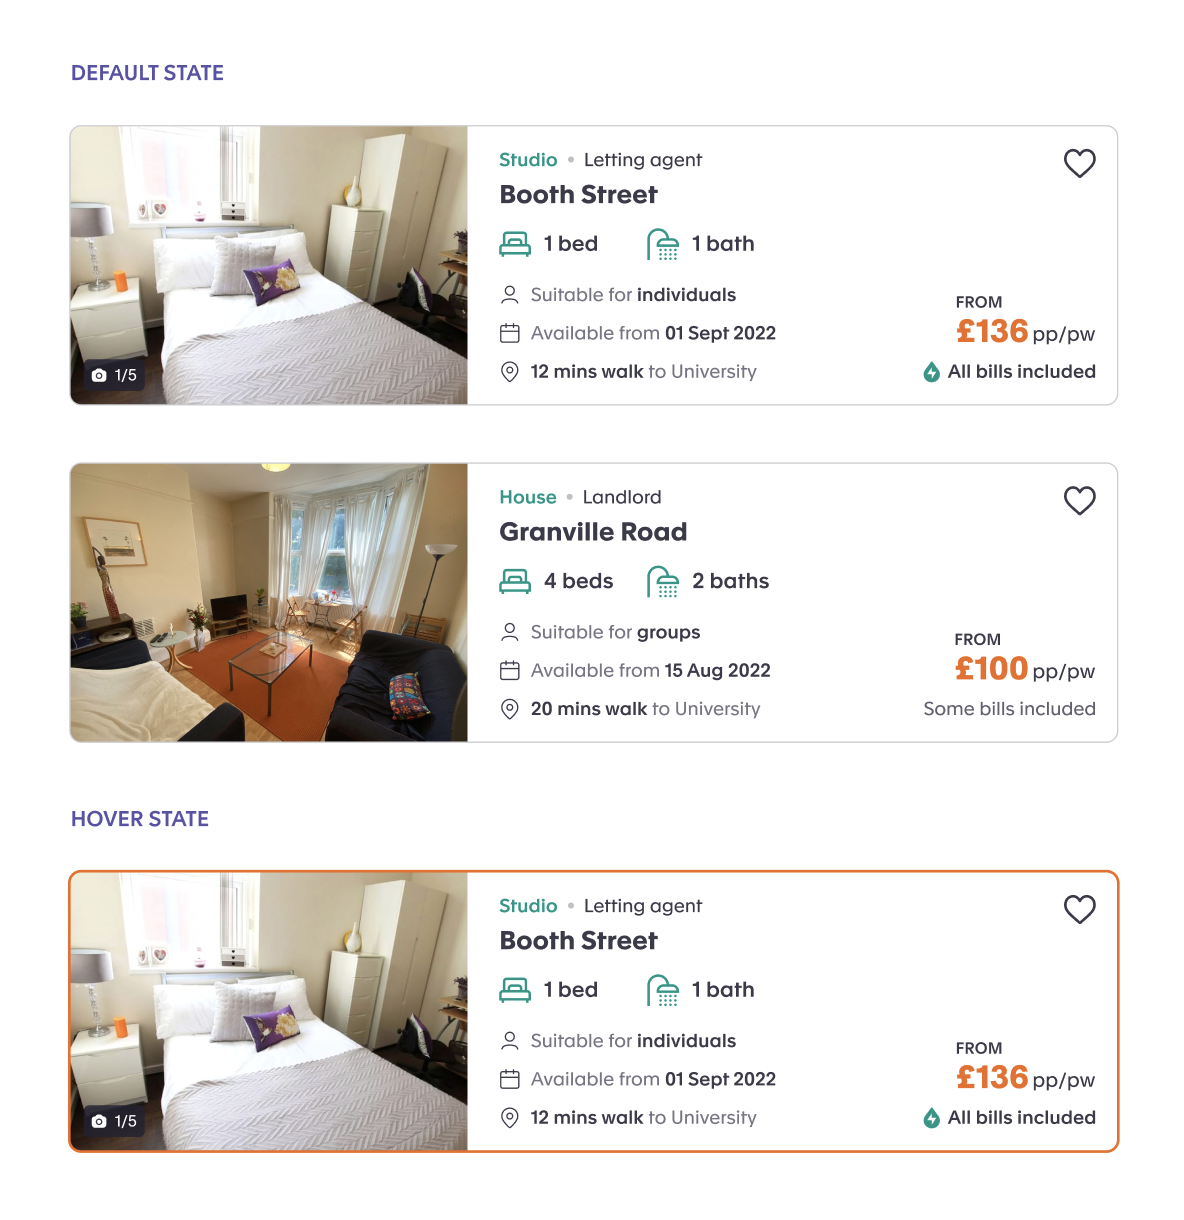
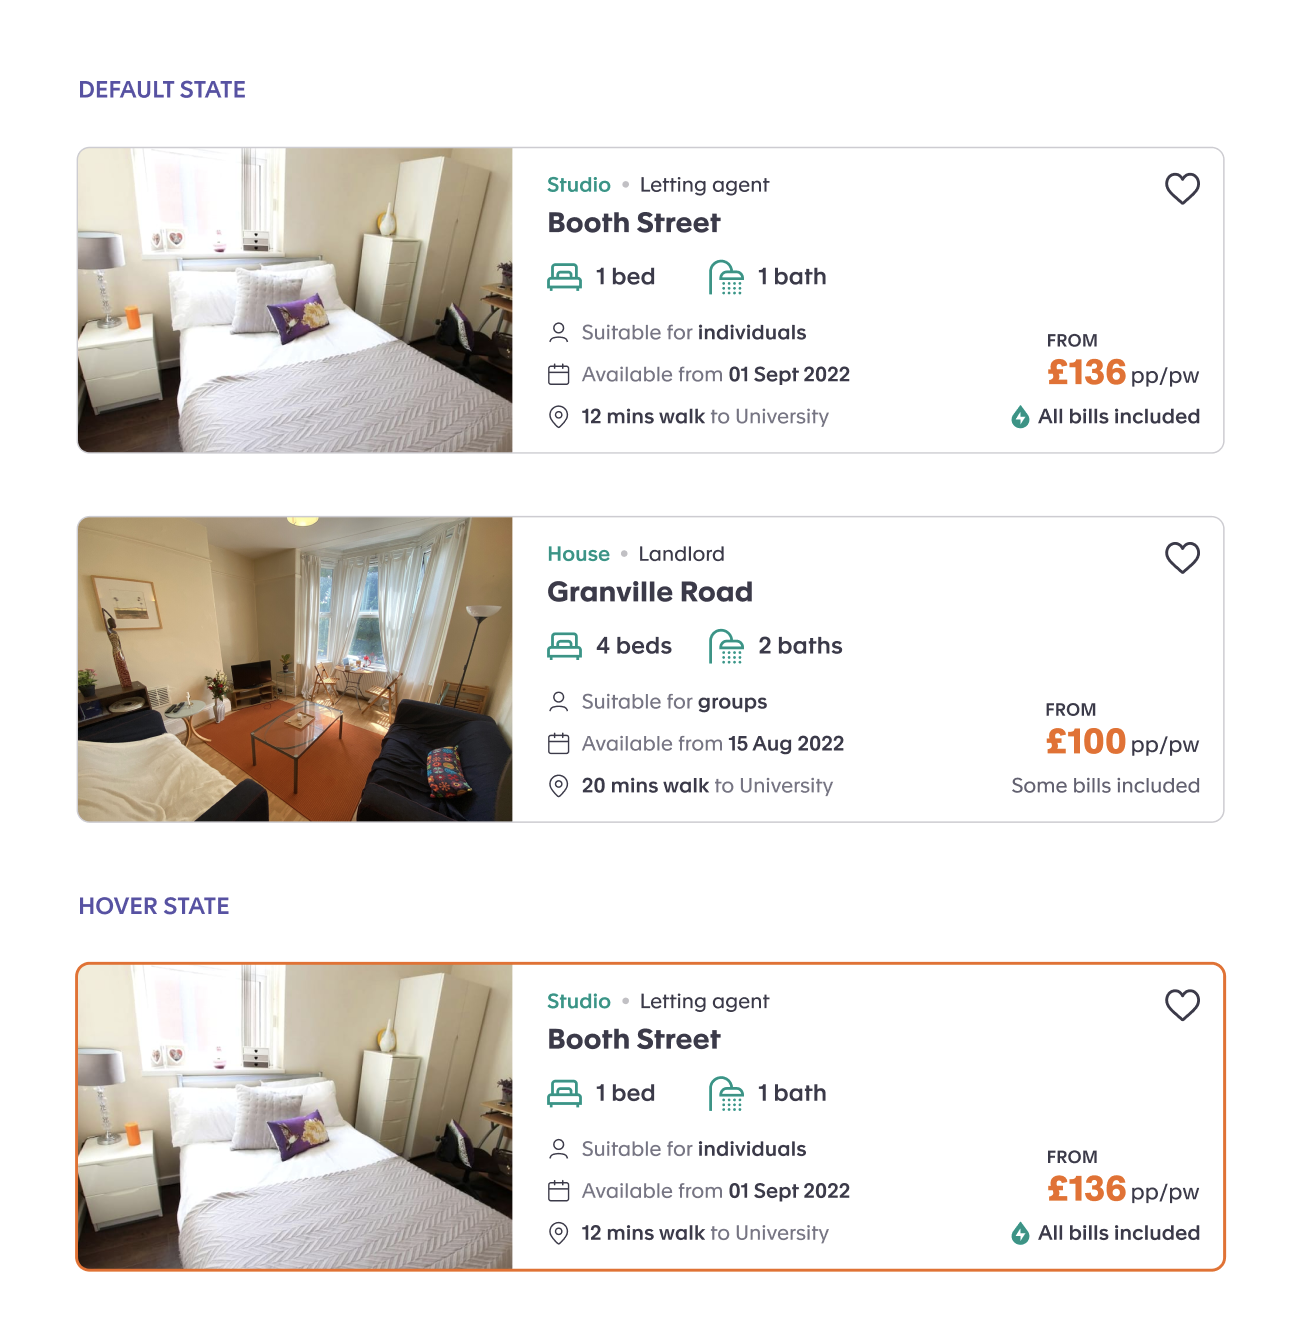
feat: update screenshots and property images

diff --git a/src/data/properties.js b/src/data/properties.js
@@ -3,10 +3,10 @@ module.exports = [
     id: 1,
     url: '/',
     propertyType: 'flat',
-    occupancy: {
-      total: 2,
-      available: 2,
-    },
+    beds: 2,
+    baths: 1,
+    tenancyAgreement: 'groups',
+    accountType: 'Landlord',
     address: {
       address1: 'Block 11 Unit 7a',
       address2: 'Long Street',
@@ -27,15 +27,20 @@ module.exports = [
         currency: 'GBP',
       },
     },
+    availableFrom: '01 Sept 2022',
+    distanceFromUniversity: {
+      time: '10 mins',
+      modeOfTransport: 'walk'
+    }
   },
   {
     id: 2,
     url: '/',
     propertyType: 'house',
-    occupancy: {
-      total: 6,
-      available: 4,
-    },
+    beds: 6,
+    baths: 2,
+    tenancyAgreement: 'individuals',
+    accountType: 'Landlord',
     address: {
       address1: '101',
       address2: 'Woodlands Park Road',
@@ -56,15 +61,20 @@ module.exports = [
         currency: 'GBP',
       },
     },
+    availableFrom: '15 Aug 2022',
+    distanceFromUniversity: {
+      time: '25 mins',
+      modeOfTransport: 'walk'
+    }
   },
   {
     id: 3,
     url: '/',
     propertyType: 'flat',
-    occupancy: {
-      total: 2,
-      available: 1,
-    },
+    beds: 2,
+    baths: 1,
+    tenancyAgreement: 'groups',
+    accountType: 'Letting Agent',
     address: {
       address1: '5',
       address2: 'Bishops Way',
@@ -79,21 +89,26 @@ module.exports = [
       },
     ],
     terms: {
-      billsIncluded: 'none',
+      billsIncluded: 'all',
       rentPpw: {
         value: 200,
         currency: 'GBP',
       },
     },
+    availableFrom: '01 Jul 2022',
+    distanceFromUniversity: {
+      time: '5 mins',
+      modeOfTransport: 'walk'
+    }
   },
   {
     id: 4,
     url: '/',
-    propertyType: 'flat',
-    occupancy: {
-      total: 2,
-      available: 2,
-    },
+    propertyType: 'studio',
+    beds: 1,
+    baths: 1,
+    tenancyAgreement: 'individuals',
+    accountType: 'Landlord',
     address: {
       address1: 'Block 11 Unit 7a',
       address2: 'Long Street',
@@ -104,7 +119,7 @@ module.exports = [
     thumbnails: [
       {
         url:
-          'https://img.gs/vvjnmlqfld/371/www.accommodationforstudents.com/images/properties/lphs_1808_main26052016151657.jpg',
+          'https://img.gs/vvjnmlqfld/371/https://afs-property-images-prod.s3.eu-west-2.amazonaws.com/protected/eu-west-2%3A07405c9c-db6d-4172-b0e3-563d43f9b96a/0-1630320181714.jpeg',
       },
     ],
     terms: {
@@ -114,15 +129,20 @@ module.exports = [
         currency: 'GBP',
       },
     },
+    availableFrom: '01 Jul 2022',
+    distanceFromUniversity: {
+      time: '15 mins',
+      modeOfTransport: 'bus ride'
+    }
   },
   {
     id: 5,
     url: '/',
     propertyType: 'house',
-    occupancy: {
-      total: 6,
-      available: 4,
-    },
+    beds: 6,
+    baths: 3,
+    tenancyAgreement: 'groups',
+    accountType: 'Letting Agent',
     address: {
       address1: '101',
       address2: 'Woodlands Park Road',
@@ -143,15 +163,20 @@ module.exports = [
         currency: 'GBP',
       },
     },
+    availableFrom: '10 Sept 2022',
+    distanceFromUniversity: {
+      time: '25 mins',
+      modeOfTransport: 'bus ride'
+    }
   },
   {
     id: 6,
     url: '/',
-    propertyType: 'flat',
-    occupancy: {
-      total: 2,
-      available: 1,
-    },
+    propertyType: 'studio',
+    beds: 1,
+    baths: 1,
+    tenancyAgreement: 'individuals',
+    accountType: 'Landlord',
     address: {
       address1: '5',
       address2: 'Bishops Way',
@@ -166,11 +191,16 @@ module.exports = [
       },
     ],
     terms: {
-      billsIncluded: 'none',
+      billsIncluded: 'some',
       rentPpw: {
         value: 200,
         currency: 'GBP',
       },
     },
+    availableFrom: '01 Aug 2022',
+    distanceFromUniversity: {
+      time: '10 mins',
+      modeOfTransport: 'walk'
+    }
   },
 ]
